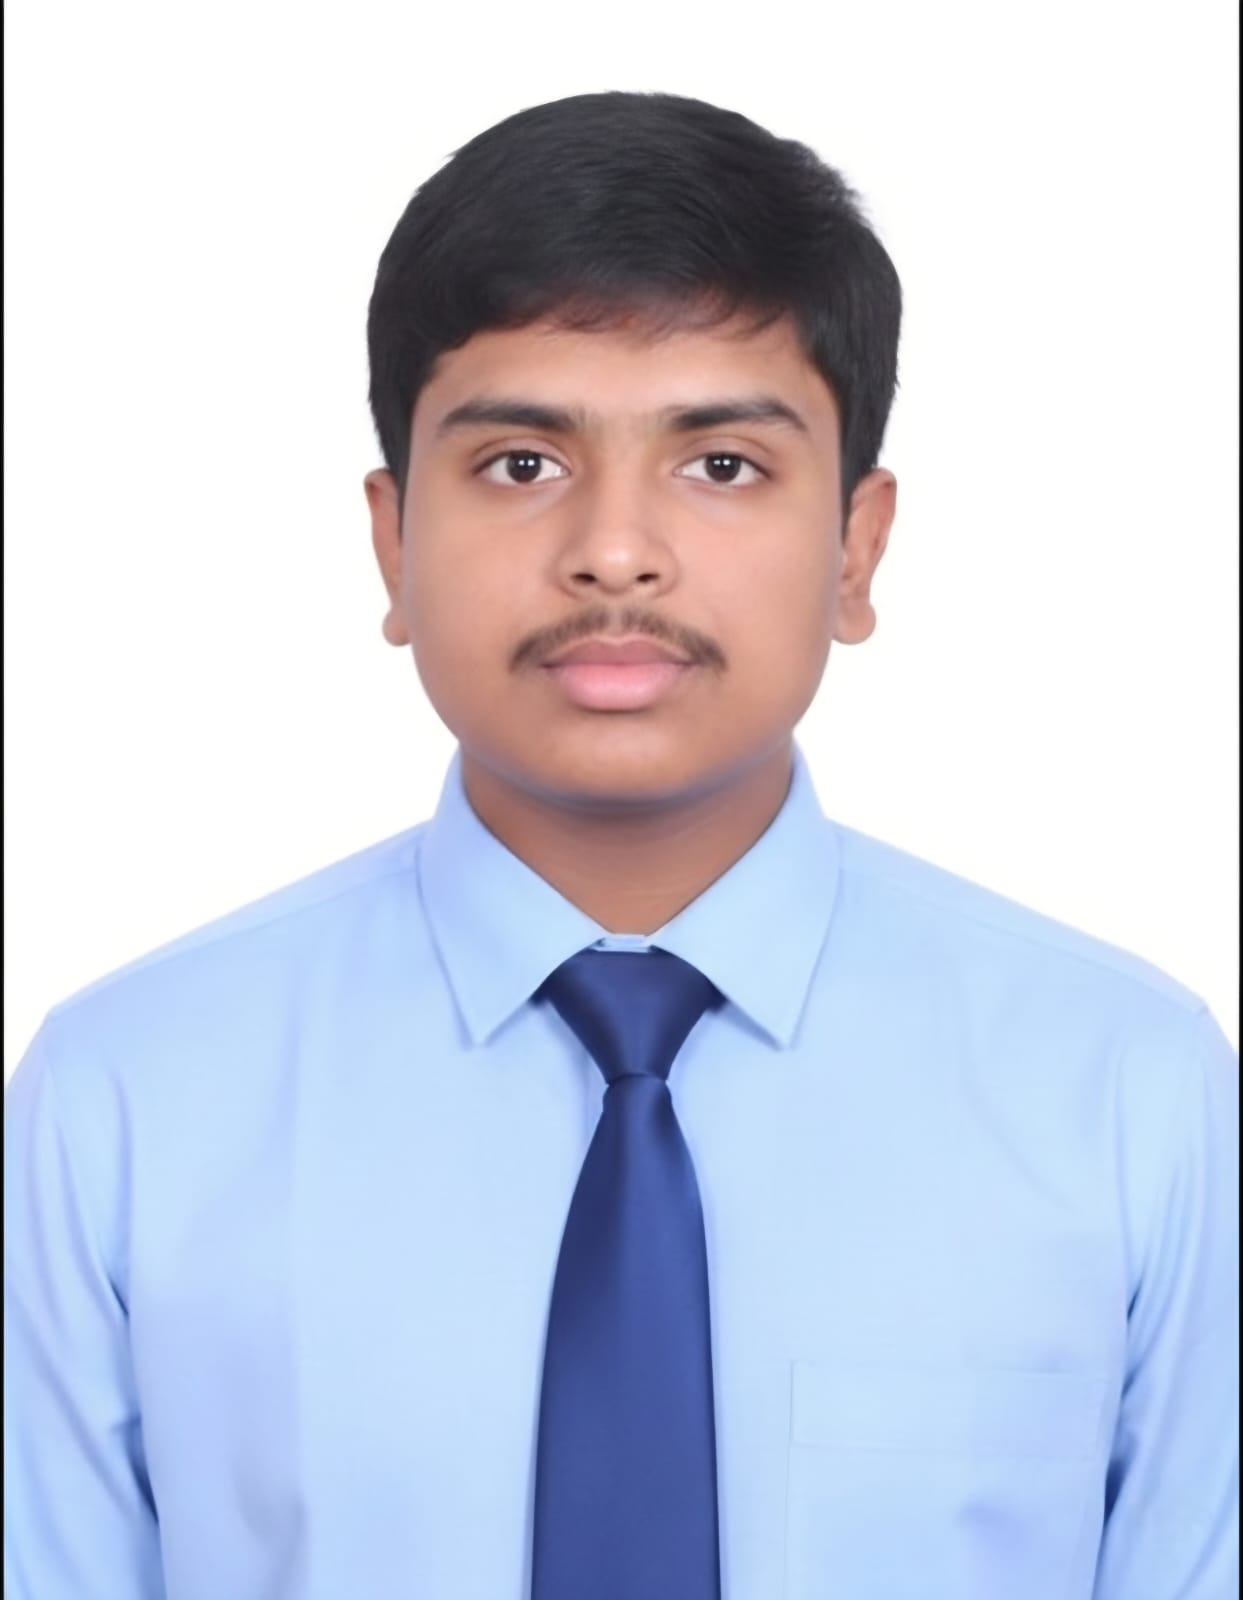
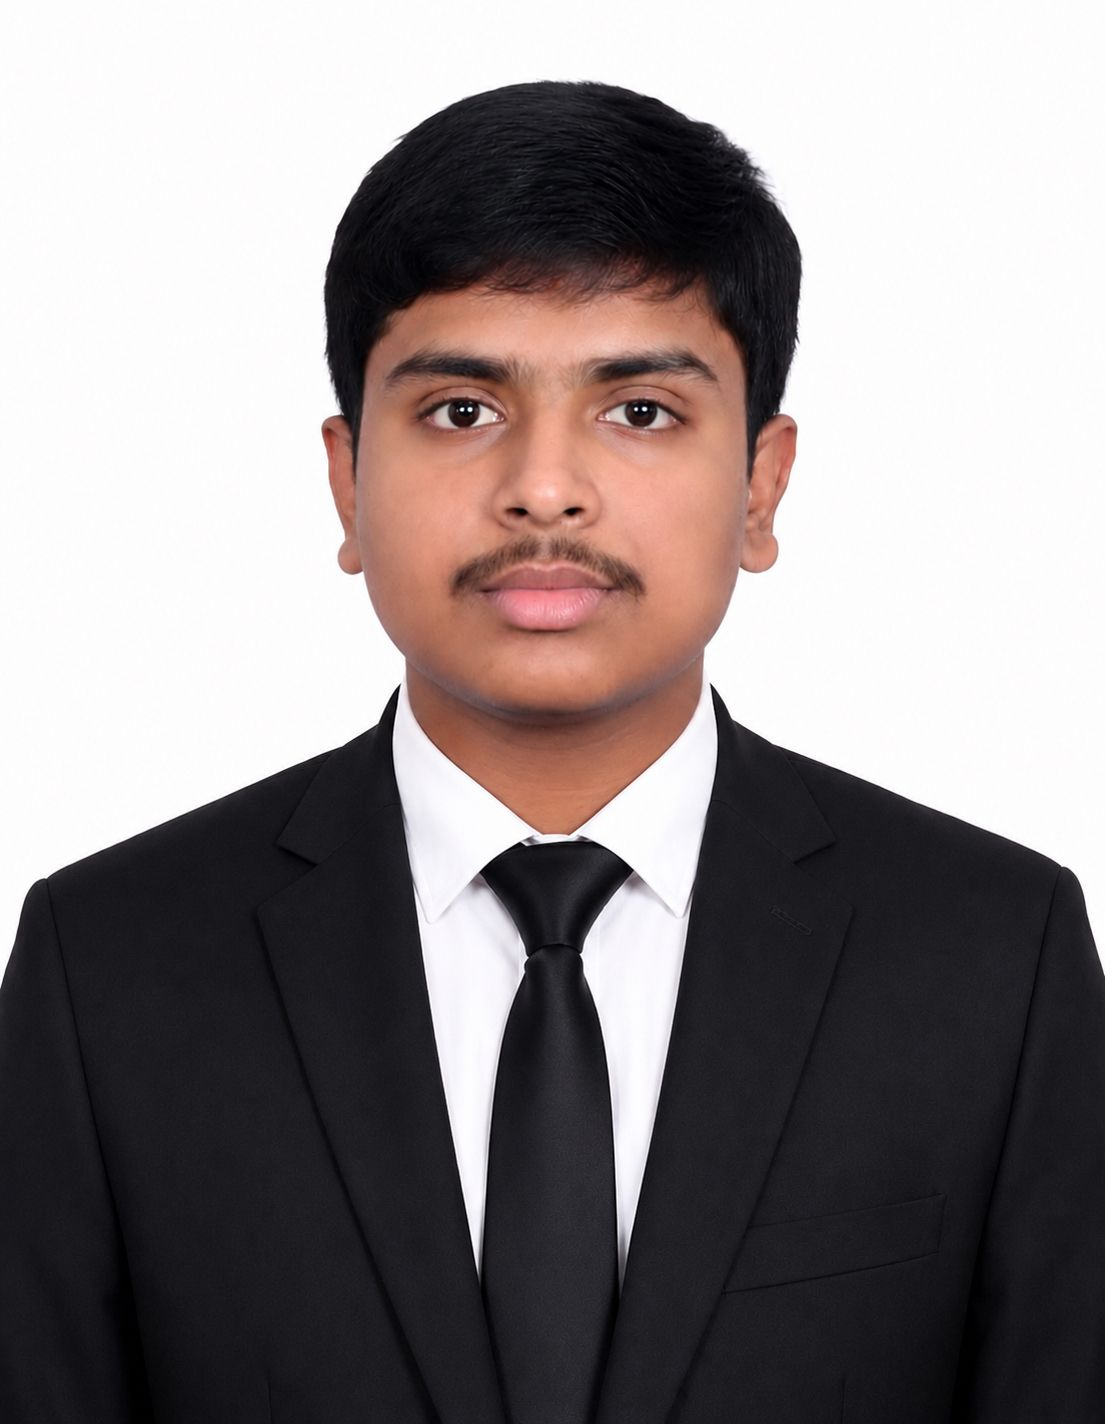
Added employees images

diff --git a/frontend/src/components/ourEmployees.js b/frontend/src/components/ourEmployees.js
@@ -10,14 +10,14 @@ const employees = [
   },
   {
     id: 2,
-    image: "/employee_pics/teja.jpg", 
-    name: "Teja",
+    image: "/employee_pics/teja.jpeg", 
+    name: "Duggani Venkata Sai teja",
    position: "Full Stack  Intern",
   },
   {
     id: 3,
-    image: "/employee_pics/vamshi.jpeg",
-    name: "A Bhanu Vamshi",
+    image: "/employee_pics/vamsi.jpeg",
+    name: "Achanta Bhanu Vamsi",
     position: "Full Stack  Intern",
    
   },
@@ -26,49 +26,118 @@ const employees = [
     id: 4,
     image: "/employee_pics/chandan.jpeg", 
     name: "T.K.Chandan",
-     position: "Full Stack Intern",
-  }
-  ,
+    position: "Full Stack Intern",
+    objectPosition: "top",
+  },
   {
     id: 5,
     image: "/employee_pics/chakresh.jpeg", 
     name: "Chakresh",
-   position: "Full Stack Intern",
-   
+    position: "Full Stack Intern",
+    objectPosition: "top",
   },
-
   {
     id: 6,
     image: "/employee_pics/rakesh.jpeg", 
     name: "Rakesh  kumar",
-     position: "Full Stack Intern",
+    position: "Full Stack Intern",
   },
-
-   {
+  {
     id: 7,
     image: "/employee_pics/yasaswini.jpeg", 
     name: "Nagallaa yasaswini",
-     position: "Full Stack Intern",
+    position: "Full Stack Intern",
+    // objectPosition: "center 15%",
   },
-
   {
     id: 8,
     image: "/employee_pics/janardhan.jpeg", 
     name: "S.Janardhan",
-     position: "Full Stack Intern",
+    position: "Full Stack Intern",
+    objectPosition: "center 10%",
   },
-
-
   {
     id: 9,
     image: "/employee_pics/tejaswini.jpeg", 
     name: "N.Tejaswini",
-     position: "Full Stack Intern",
+    position: "Full Stack Intern",
+  },
+  {
+    id: 10,
+    image: "/employee_pics/puneeth.jpeg", 
+    name: "Puneeth Kumar",
+    position: "Full Stack Intern",
+  },
+  {
+    id: 11,
+    image: "/employee_pics/revanth.jpeg", 
+    name: "MADDULA REVANTH SRI",
+    position: "Full Stack Intern",
+  },
+  {
+    id: 12,
+    image: "/employee_pics/sowjanya.jpeg", 
+    name: "Sowjanya Attuluri",
+    position: "QA Engineer",
+    objectPosition: "top",
+  },
+  {
+    id: 13,
+    image: "/employee_pics/nageswar.jpeg", 
+    name: "Nageswararao Kondeti",
+    position: "UI/UX Designer",
+  },
+  {
+    id: 14,
+    image: "/employee_pics/kranthi.jpeg", 
+    name: "Kranthi Polisheety",
+    position: "UI/UX Designer",
+  },
+  {
+    id: 15,
+    image: "/employee_pics/ram.jpeg", 
+    name: "Vamsi Ram Nandigam",
+    position: "QA Engineer Intern",
+    objectPosition: "top",
+  },
+  {
+    id: 16,
+    image: "/employee_pics/anu.jpeg", 
+    name: "Anantha Lakshmi Putta",
+    position: "QA Engineer Intern",
+  },
+  {
+    id: 17,
+    image: "/employee_pics/gattham.jpeg", 
+    name: "Anu Gattham",
+    position: "QA Engineer Intern",
+  },
+  {
+    id: 18,
+    image: "/employee_pics/hasritha.jpeg", 
+    name: "Hasritha Rayavaram",
+    position: "QA Engineer Intern",
+  },
+  {
+    id: 19,
+    image: "/employee_pics/alekhya.jpeg", 
+    name: "Alekhya Attuluri",
+    position: "HR",
+    objectPosition: "top",
+  },
+  {
+    id: 20,
+    image: "/employee_pics/lokesh.jpeg", 
+    name: "Vaddevalli lokesh",
+    position: "HR",
+    objectPosition: "top",
+  },
+  {
+    id: 21,
+    image: "/employee_pics/pushpak.jpeg", 
+    name: "Tanneeru Pushpak",
+    position: "COO",
   }
-
-
-  
-  
 ];
 
 const OurEmployees = () => {
@@ -86,7 +155,11 @@ const OurEmployees = () => {
         <div className="slide-track">
           {[...employees, ...employees].map((employee, index) => (
             <div className="employee-card" key={index}>
-              <img src={employee.image} alt={employee.name} />
+              <img 
+                src={employee.image} 
+                alt={employee.name} 
+                style={{ objectPosition: employee.objectPosition || "center" }}
+              />
               <h4 style={{ fontSize: "13px" }}>{employee.name}</h4>
               <h4 style={{ fontSize: "12px" }} >{employee.position}</h4>
               {/* <h4 style={{ fontSize: "12px" }}>{employee.Role}</h4> */}
